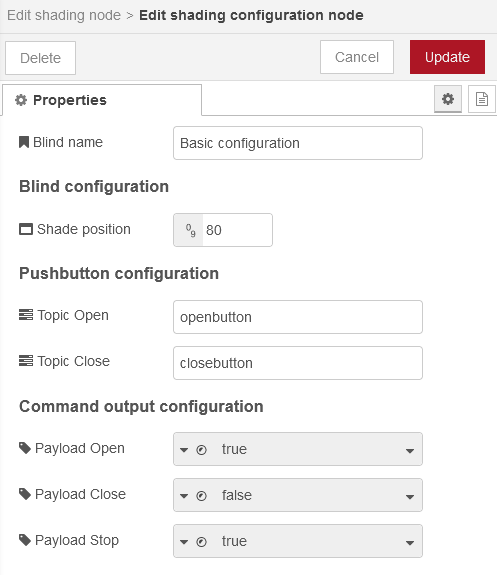
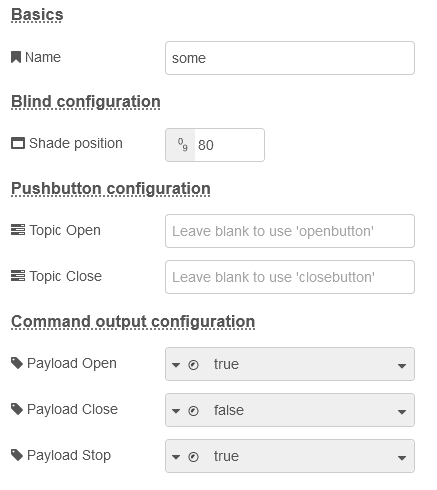
More documentation is here now

diff --git a/doc/node.md b/doc/node.md
@@ -1,15 +1,15 @@
 # Manual for "shading node"
-This interface provides you with only some very basic settings.
+Here you find some very basic and blind specific settings. Create a configuraiton set under Basics -> Configuration, which you can re-use with oder blinds.
 
 <img src="node.png" height="270px" style="border:1px dashed grey">
 
 ## Basics
 
 ### Name
-If you wish, give the individual node a name. It will be displayed on the drawboard. If you leave this field empty, "Shading" will be displayed. The value you enter here will also be used in any logging or debugging, so sou might seriously be interested to name the node recognizable.
+If you wish, give the individual node a name. It will be displayed on the drawboard. If you leave this field empty, "Shading" will be displayed there. The value you enter here will also be used in any logging or debugging, so sou might be interested to name the node recognizable.
 
 ### Configuration
-Some serious magic hides behind this configuration. [Read this](configuration.md) to learn more.
+Some serious magic hides behind this configuration. Create a set of functionalities and use this with other shading nodes. [Read this](configuration.md) to learn more.
 
 ## Automatic
 
@@ -17,9 +17,9 @@ Some serious magic hides behind this configuration. [Read this](configuration.md
 If you wish only to control your blind only manually, leave this option disabled. If you prefer to have some automatic behavior, enable it. [Read this](automatic.md) to learn more.
 
 ### Configuration
-This field is only visible, if automatic is enabled. Choose here a configuration set optionally used together with other shading nodes. The name of the configuration set can be defined in the configuration itself. If left blank, the orientation value in degrees will be used instead.
+This field is only visible, if automatic is enabled. Create or choose a configuration set, which may me shared together with other shading nodes. The name of the configuration set optionally can be defined in the configuration itself.
 
 ## Debugging
 
 ### Enable
-Enabling this option is really not recommended, unless you know what you are doing or simply don't care. The result will be lots of debugging messages on the console as well as in the debug view of Node-RED.
+Enabling this option results in receiving messages in the debug pane as well as in the console. You should not have this enabled permanently and with more nodes as it may confuse things. This option may be removed at some later time.

diff --git a/doc/configuration.md b/doc/configuration.md
@@ -1,16 +1,25 @@
 # Manual for "shading configuration node"
-Here you make basic settings affecting the behavior of your blind. Create this configuration set and use it then for other shading nodes.
+Settings here affect the behavior of your blind. Create this set of configuration and use it for other shading nodes.
 
 <img src="configuration.png" height="400px" style="border:1px dashed grey">
 
 ## Basics
 
 ### Name
-This is required. Enter a name to identify the configuration set. Espectially when using different configuration sets, this is crucial.
+Enter a name to identify the configuration set. Especially when using different configuration sets, this may be crucial. If you leave it blank, "Shading main configuration" will be shown.
 
 ## Blind configuration
 
 ### Shade position
-This must be a number between 0 and 100, where 0 is open and 100 is closed position. If you have a shutter, you may want to have it moving not completely down but not close it completely. Moving to this value will leave the gaps open in your blind.
+This must be a number between 0 and 100, where 0 is open and 100 is closed position. If you have a shutter, you may want to have it moving not completely down but not close it completely. Moving to this value will leave the gaps open in your blind, like this:
 
 <img src="configuration-shadeposition.jpg" height="400px" style="border:1px dashed grey">
+
+## Pushbutton configuration
+If you have pushbuttons (i.e. on your wall, in your web interface, ...), **they MUST send as payload a boolean TRUE if pressed and a boolean FALSE if released**. The topic of these messages must meet wither "openbutton" and "closebutton", but you can modify the topics below for both buttons.
+
+### Topic Open
+This is the topic expected within the message for a open command. It must be part of both bushed and released messages.
+
+### Topic Open
+This is the topic expected within the message for a close command. It must be part of both bushed and released messages.

diff --git a/doc/automatic.md b/doc/automatic.md
@@ -1,1 +1,11 @@
-This is the incredible init version of the instruction.
+# Manual for "shading automatic node"
+Options here affect automatic behavior of your blind.
+
+<img src="automatic.png" height="400px" style="border:1px dashed grey">
+
+## Basics
+
+### Name
+Enter a name to identify the configuration set. Especially when using different configuration sets, this may be crucial. If you leave it blank, "Shading main configuration" will be shown.
+
+## Blind configuration
